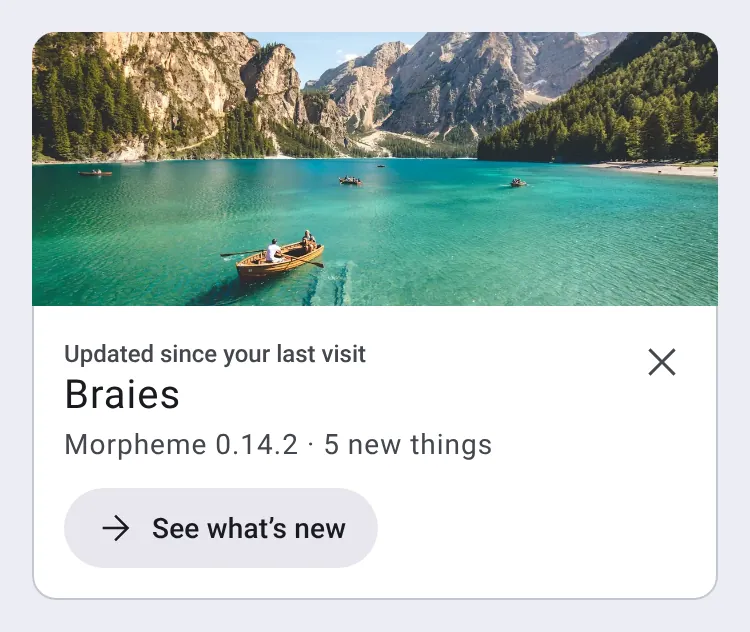
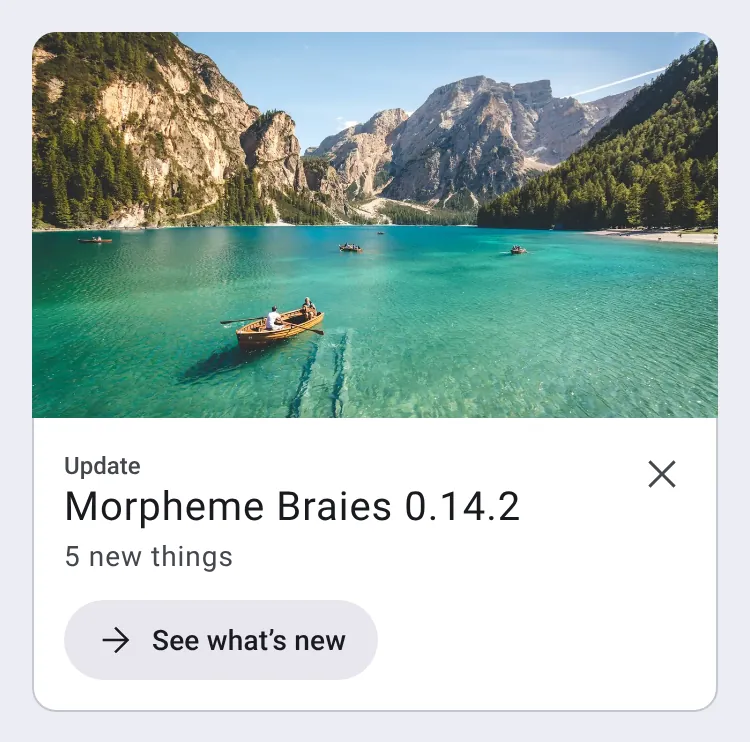
Show the edition in a 16:9 photo, titled "Morpheme Braies 0.14.2"
The edition's photo is 16:9 (1280 × 720) and the card is at most xl wide,
so it stays small on a computer. The card's label is "Update"
("Opdatering"), and its title names the CMS, the edition and the version
(cmsEdition), with how many new things under it.

Claude-Session: https://claude.ai/code/session_01GGzusN3TCZExqovwX6Beg3

diff --git a/src/UpdatesNotice.tsx b/src/UpdatesNotice.tsx
@@ -1,6 +1,6 @@
 // At the top of the start screen: what was updated since the last visit in this browser, as a small card with a close
-// button that marks it seen. For the CMS: the photo of its edition (release-notes/editions/, named after the place the photo
-// is from), the edition's name, the new version and how many new things it brings (bundledNotes.ts), and a button to the
+// button that marks it seen. For the CMS: the photo of its edition (16:9, release-notes/editions/, named after the place
+// the photo is from), "Morpheme <edition> <version>" and how many new things it brings (bundledNotes.ts), and a button to the
 // Morpheme page with all of them; for each app installed from the store: a row with its icon and new version, to its
 // Information tab. Exposes UpdatesNotice. The logic is startView.mjs's (changesSince) and releaseNotes.mjs's (notesSince,
 // editionOf), the storage startStorage.ts's, the card, rows and buttons the theme's (themeUi.ts, ui.tsx).
@@ -50,24 +50,27 @@ export function UpdatesNotice({ files }: { files: RepoFile[] }) {
   });
   const news = cms ? notesSince(runningNotes, cms.from, locale) : [];
   const edition = cms && runningEdition;
-  const version = cms ? t.library.cmsVersion(cms.version) : t.library.appsUpdated(updatedApps.length);
-  const about = [edition ? version : null, news.length ? t.library.newThings(news.length) : null].filter(Boolean).join(' · ');
+  const title = cms
+    ? edition
+      ? t.library.cmsEdition(edition.name, cms.version)
+      : t.library.cmsVersion(cms.version)
+    : t.library.appsUpdated(updatedApps.length);
   return (
     <SiteCard
       kind="outlined"
       as="section"
       role="status"
       aria-labelledby="updates-title"
-      className="mb-8 overflow-hidden [--card-padding:0]"
+      className="mb-8 max-w-xl overflow-hidden [--card-padding:0]"
     >
-      {edition && <img src={edition.image} alt="" className="block aspect-[5/2] max-h-48 w-full object-cover object-[50%_85%]" />}
+      {edition && <img src={edition.image} alt="" className="block aspect-video w-full object-cover" />}
       <div className="relative p-4 pe-14">
         <CloseButton onClick={close} />
         <h2 id="updates-title" className="text-xs font-medium text-muted">
           {t.library.updatesTitle}
         </h2>
-        <p className="text-xl leading-tight [overflow-wrap:anywhere]">{edition ? edition.name : version}</p>
-        {about && <p className="mt-0.5 text-sm [overflow-wrap:anywhere] text-muted">{about}</p>}
+        <p className="text-xl leading-tight [overflow-wrap:anywhere]">{title}</p>
+        {news.length > 0 && <p className="mt-0.5 text-sm text-muted">{t.library.newThings(news.length)}</p>}
         {cms && (
           <LinkButton kind="tonal" size="small" href={`#${CMS_ROUTE}`} icon={ArrowRight} className="mt-3">
             {t.library.seeWhatsNew}

diff --git a/src/i18n/en-US/library.ts b/src/i18n/en-US/library.ts
@@ -15,8 +15,11 @@ export const library = {
   /** Under each of them: its kind ("Page") and when it was saved ("today at 1:42 PM", when.ts). */
   recentEdit: (kind: string, when: string) => `${kind} · Edited ${when}`,
   /** At the top of the start screen (UpdatesNotice.tsx): the card with what was updated since the last visit in this
-   * browser. Its title, over the CMS's new version (cmsVersion) or, with only apps updated, how many. */
-  updatesTitle: 'Updated since your last visit',
+   * browser. Its label, over the CMS's edition and new version (cmsEdition), its new version (cmsVersion) or, with only
+   * apps updated, how many. */
+  updatesTitle: 'Update',
+  /** The CMS's name, its edition (the place the edition's photo is from: "Braies") and its new version. */
+  cmsEdition: (edition: string, version: string) => `Morpheme ${edition} ${version}`,
   appsUpdated: (count: number) => (count === 1 ? '1 app updated' : `${count} apps updated`),
   /** Under the CMS's new version: how many new things its release notes have since the version seen last. */
   newThings: (count: number) => (count === 1 ? '1 new thing' : `${count} new things`),

diff --git a/src/i18n/da-DK/library.ts b/src/i18n/da-DK/library.ts
@@ -8,7 +8,8 @@ export const library: Messages['library'] = {
   continueTitle: 'Fortsæt, hvor du slap',
   continueEmpty: 'De sider og indlæg, du redigerer, vises her.',
   recentEdit: (kind, when) => `${kind} · Redigeret ${when}`,
-  updatesTitle: 'Opdateret siden dit sidste besøg',
+  updatesTitle: 'Opdatering',
+  cmsEdition: (edition, version) => `Morpheme ${edition} ${version}`,
   appsUpdated: (count) => (count === 1 ? '1 app er opdateret' : `${count} apps er opdateret`),
   newThings: (count) => (count === 1 ? '1 nyhed' : `${count} nyheder`),
   seeWhatsNew: 'Se, hvad der er nyt',

diff --git a/.changeset/README.md b/.changeset/README.md
@@ -51,10 +51,10 @@ Example lines:
 ## Editions
 
 Each release can be an edition named after a place: a nature photo from [Unsplash](https://unsplash.com) and the name of
-where it was taken. After an update, the start screen shows the photo, the name and the new version in a small card.
+where it was taken. After an update, the start screen shows the photo and "Morpheme <name> <version>" in a small card.
 
 - `release-notes/editions/<version>.json`: `name` (the place, as the card shows it), `place` (the full place) and
   `photo` (`by`, `source` and `license`).
-- `release-notes/editions/<version>.webp`: the photo, 1200 × 480 px, at most 200 KB.
+- `release-notes/editions/<version>.webp`: the photo, 16:9, 1280 × 720 px, at most 200 KB.
 
 A version shows the newest edition whose version is at most its own, so an edition lasts until the next one.
